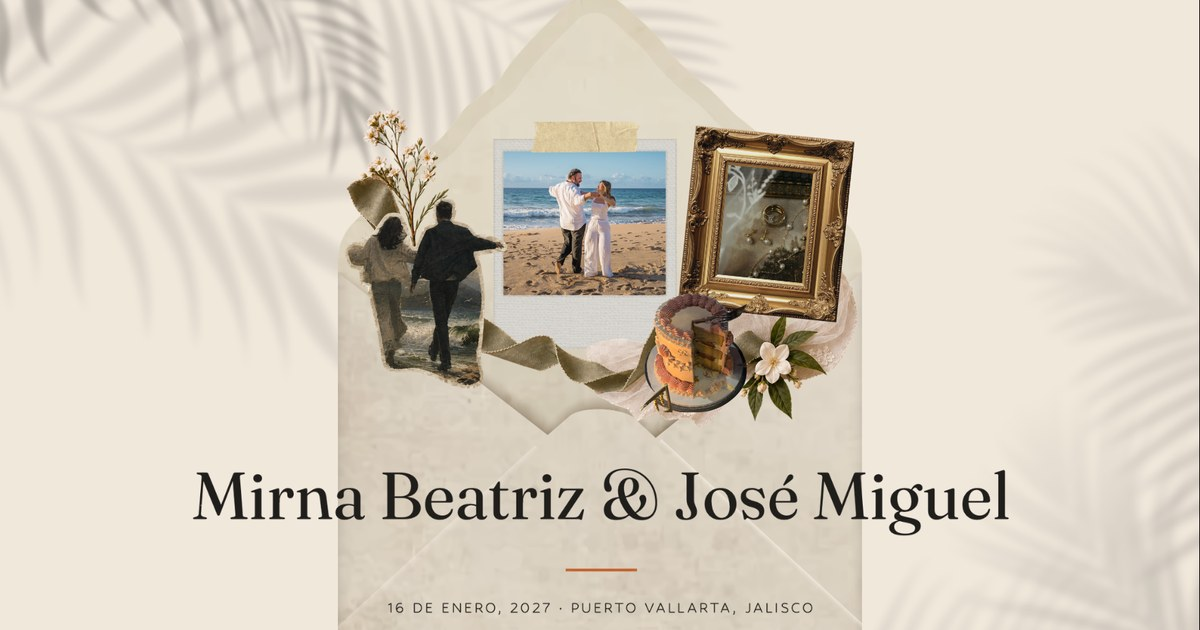
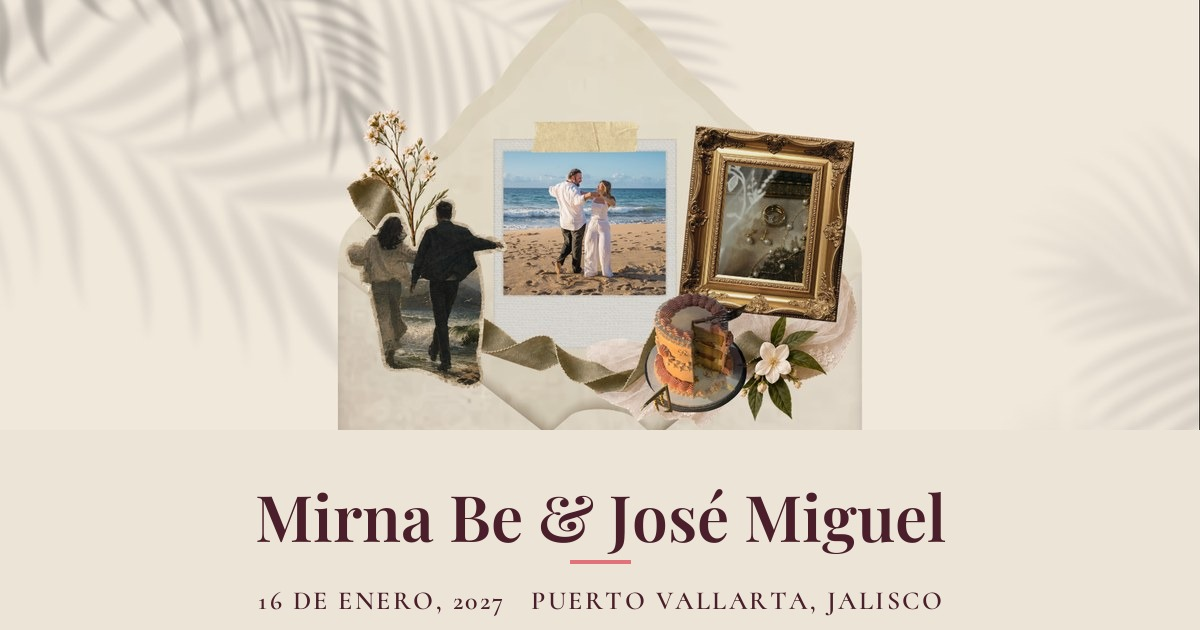
Hide Cover pending-note; regenerate og-image centered with Mirna Be
Cover section no longer shows the visible "Pendiente: nueva imagen de
portada" text to guests — still blank (h1 for SEO only) until a
replacement image lands, just not announcing it.

WhatsApp/social thumbnail (og-image.jpg): same 1200x630 size, kept the
existing collage/envelope art untouched, replaced the left-aligned
text panel with centered "Mirna Be & José Miguel" + date/place, in
Playfair Display/Cormorant to match the current site typography.

diff --git a/index.html b/index.html
@@ -14,7 +14,7 @@
 -->
 <meta property="og:title" content="Mirna Be & José Miguel — Nos Casamos" />
 <meta property="og:description" content="Acompáñanos a celebrar. 16 de enero, 2027 · Puerto Vallarta, Jalisco" />
-<meta property="og:image" content="assets/og/og-image.jpg?v=1" />
+<meta property="og:image" content="assets/og/og-image.jpg?v=2" />
 <meta property="og:type" content="website" />
 
 <link rel="preconnect" href="https://fonts.googleapis.com" />
@@ -86,14 +86,14 @@
 
   <!-- 1. COVER ============================================================ -->
   <!--
-    COVER — client pulled the collage (2026-09-14), wants a new one.
-    Back to a plain stub (same pattern as Itinerary/Gallery/Letters)
-    until she hands off a replacement image. h1 kept for SEO/screen
-    readers but visually hidden.
+    COVER — client pulled the collage (2026-09-14), still wants a new
+    one, but asked (2026-09-15) to hide the visible "pending" note so
+    guests don't see it — this section is currently blank (h1 kept for
+    SEO/screen readers, visually hidden) until she hands off a
+    replacement image.
   -->
-  <section id="cover" class="section section--stub">
+  <section id="cover" class="section">
     <h1 class="visually-hidden">Mirna Be &amp; José Miguel — 16 de enero, 2027, Puerto Vallarta, Jalisco</h1>
-    <p class="stub-note">Pendiente: nueva imagen de portada.</p>
   </section>
 
   <!--
